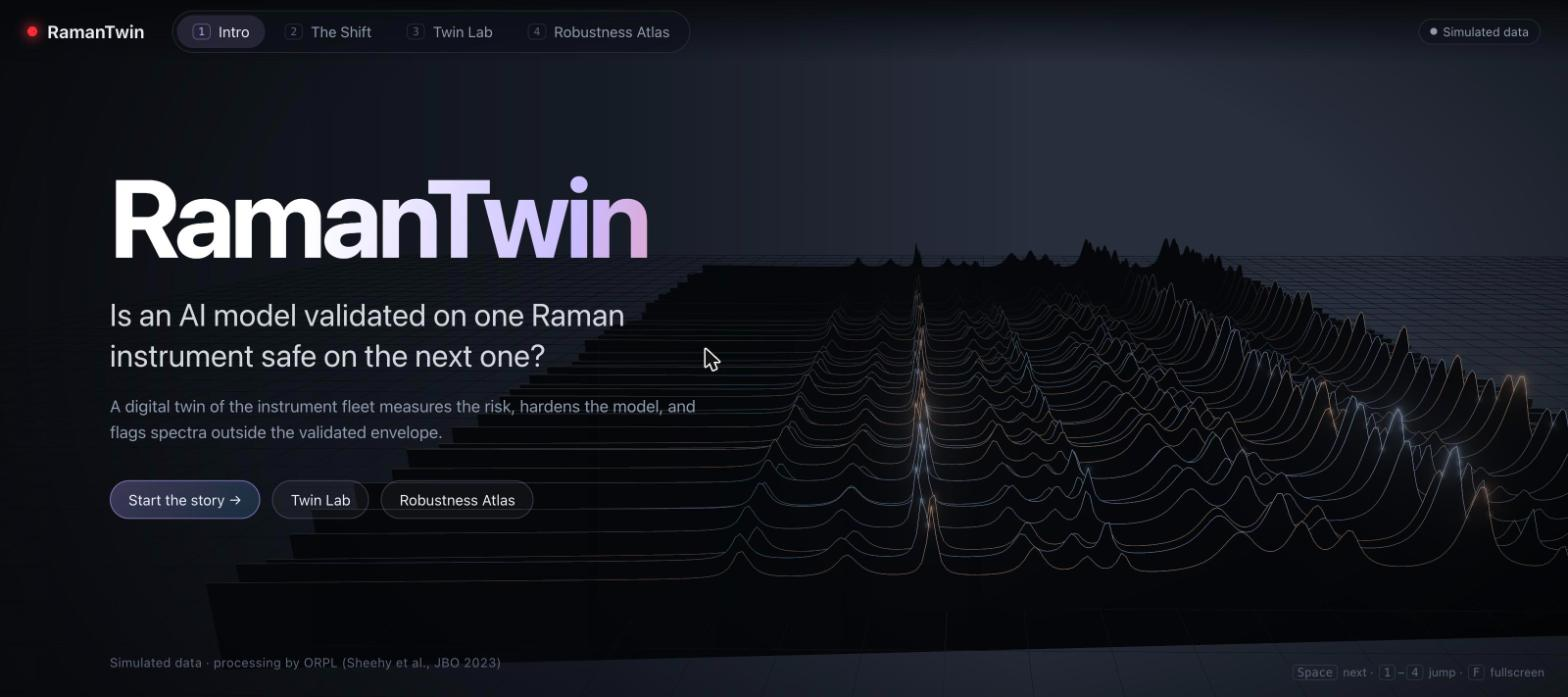
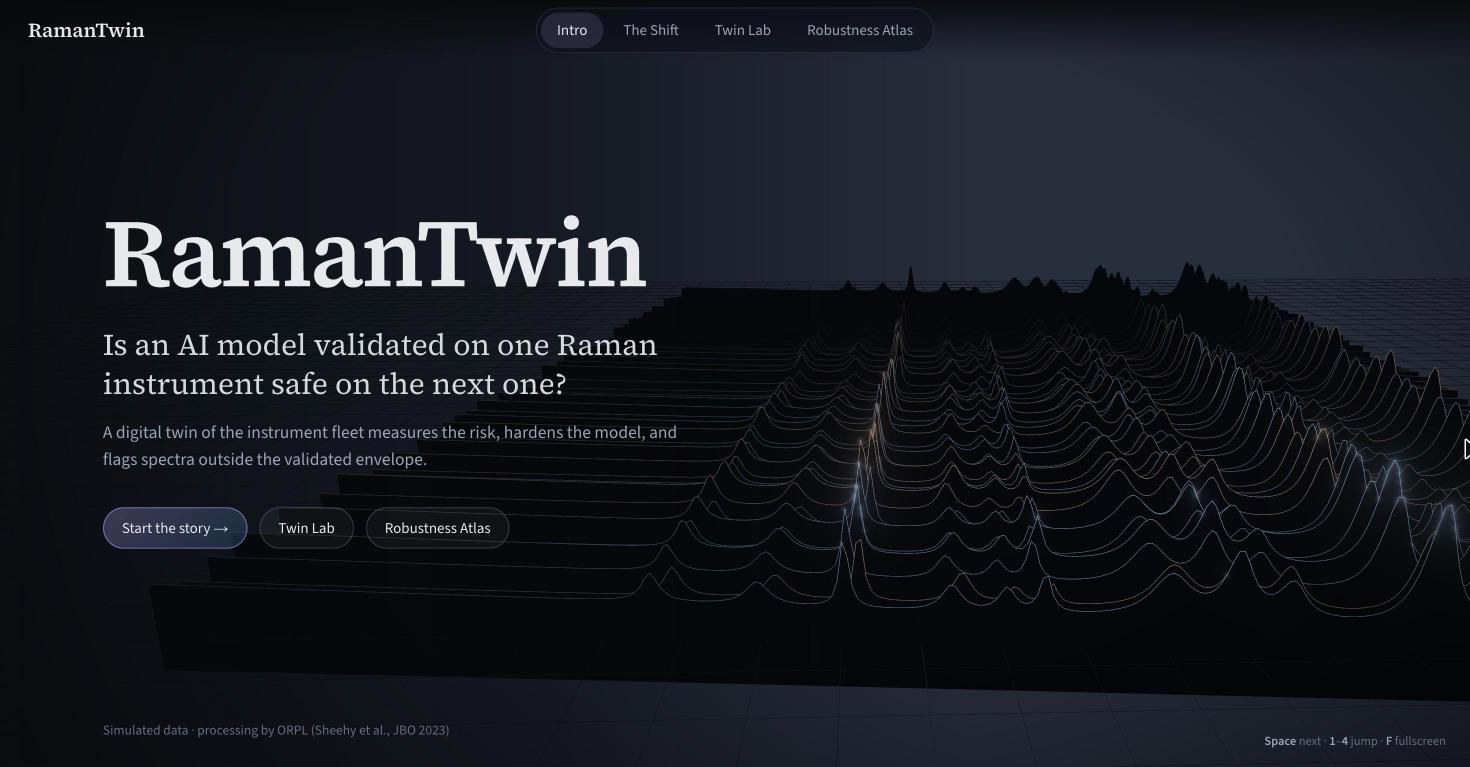
docs(readme): refresh screenshots and credit the interface fonts

diff --git a/README.md b/README.md
@@ -120,3 +120,4 @@ which raises `TypeError` on NumPy 2.x and breaks `autogenx`. `ramantwin.orpl_com
 ORPL: G. Sheehy et al., *Open-sourced Raman spectroscopy data processing package implementing a baseline
 removal algorithm validated from multiple datasets acquired in human tissue and biofluids*,
 J. Biomed. Opt. 28(2), 025002 (2023).
+Interface fonts: Source Sans 3 and Source Serif 4 by Adobe (SIL Open Font License), bundled through fontsource.

diff --git a/web/README.md b/web/README.md
@@ -1,6 +1,7 @@
 # RamanTwin web
 
-Interactive three.js front end of the RamanTwin demo. It runs fully offline: no CDN, no remote fonts.
+Interactive three.js front end of the RamanTwin demo. It runs fully offline: no CDN, no remote fonts. Source Sans 3 and Source Serif 4
+are bundled through `@fontsource-variable`.
 
 ## Develop
 
